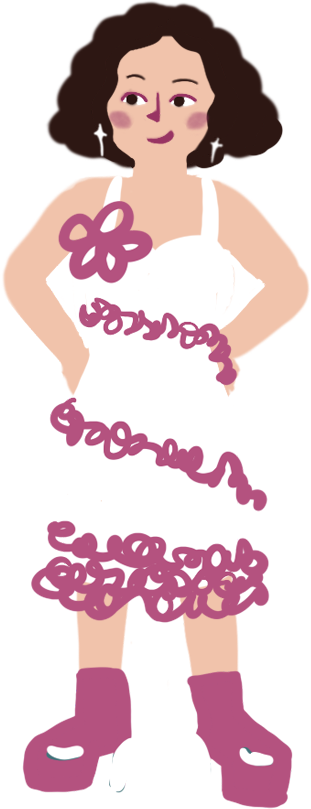
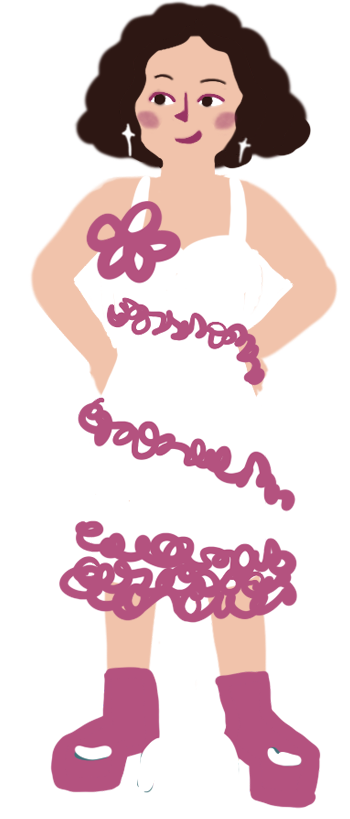
DressUpChangeSprite&ChangeButtonSprite

diff --git a/Assets/Scripts/BigLevels/LevelDressUp.cs b/Assets/Scripts/BigLevels/LevelDressUp.cs
@@ -27,6 +27,8 @@ public class LevelDressUp : LevelBasic
     private ItemCharacterDressUp itemCharacter;
     [Header("Photo")]
     public Button btnShoot;
+    public Image imgBtnShoot;
+    public List<Sprite> listSpShoot;
     public GameObject pfPhoto;
     public Transform tfContentPhoto;
     private ItemInsPhoto itemPhoto;
@@ -36,6 +38,7 @@ public class LevelDressUp : LevelBasic
     {
         base.Init(parent);
         canvasGroupDress.blocksRaycasts = true;
+        imgBtnShoot.sprite = listSpShoot[0];
         btnShoot.interactable = false;
         btnShoot.transform.DOScale(0, 0);
         btnShoot.onClick.RemoveAllListeners();
@@ -43,7 +46,8 @@ public class LevelDressUp : LevelBasic
         {
             canvasGroupDress.blocksRaycasts = false;
             btnShoot.interactable = false;
-            btnShoot.transform.DOScale(0, 0.5f);
+            imgBtnShoot.sprite = listSpShoot[1];
+            //btnShoot.transform.DOScale(0, 0.5f);
             StartCoroutine(InitShootPhoto());
         });
         isShowButton = false;

diff --git a/Assets/Scripts/LevelDetail/DressUp/ItemCharacterDressUp.cs b/Assets/Scripts/LevelDetail/DressUp/ItemCharacterDressUp.cs
@@ -15,6 +15,7 @@ public class ItemCharacterDressUp : CommonImageDragSlot
     {
         this.parent = parent;
         imgCharacter.sprite = listSpCharacter[0];
+        imgCharacter.SetNativeSize();
     }
 
     //character wares the dress
